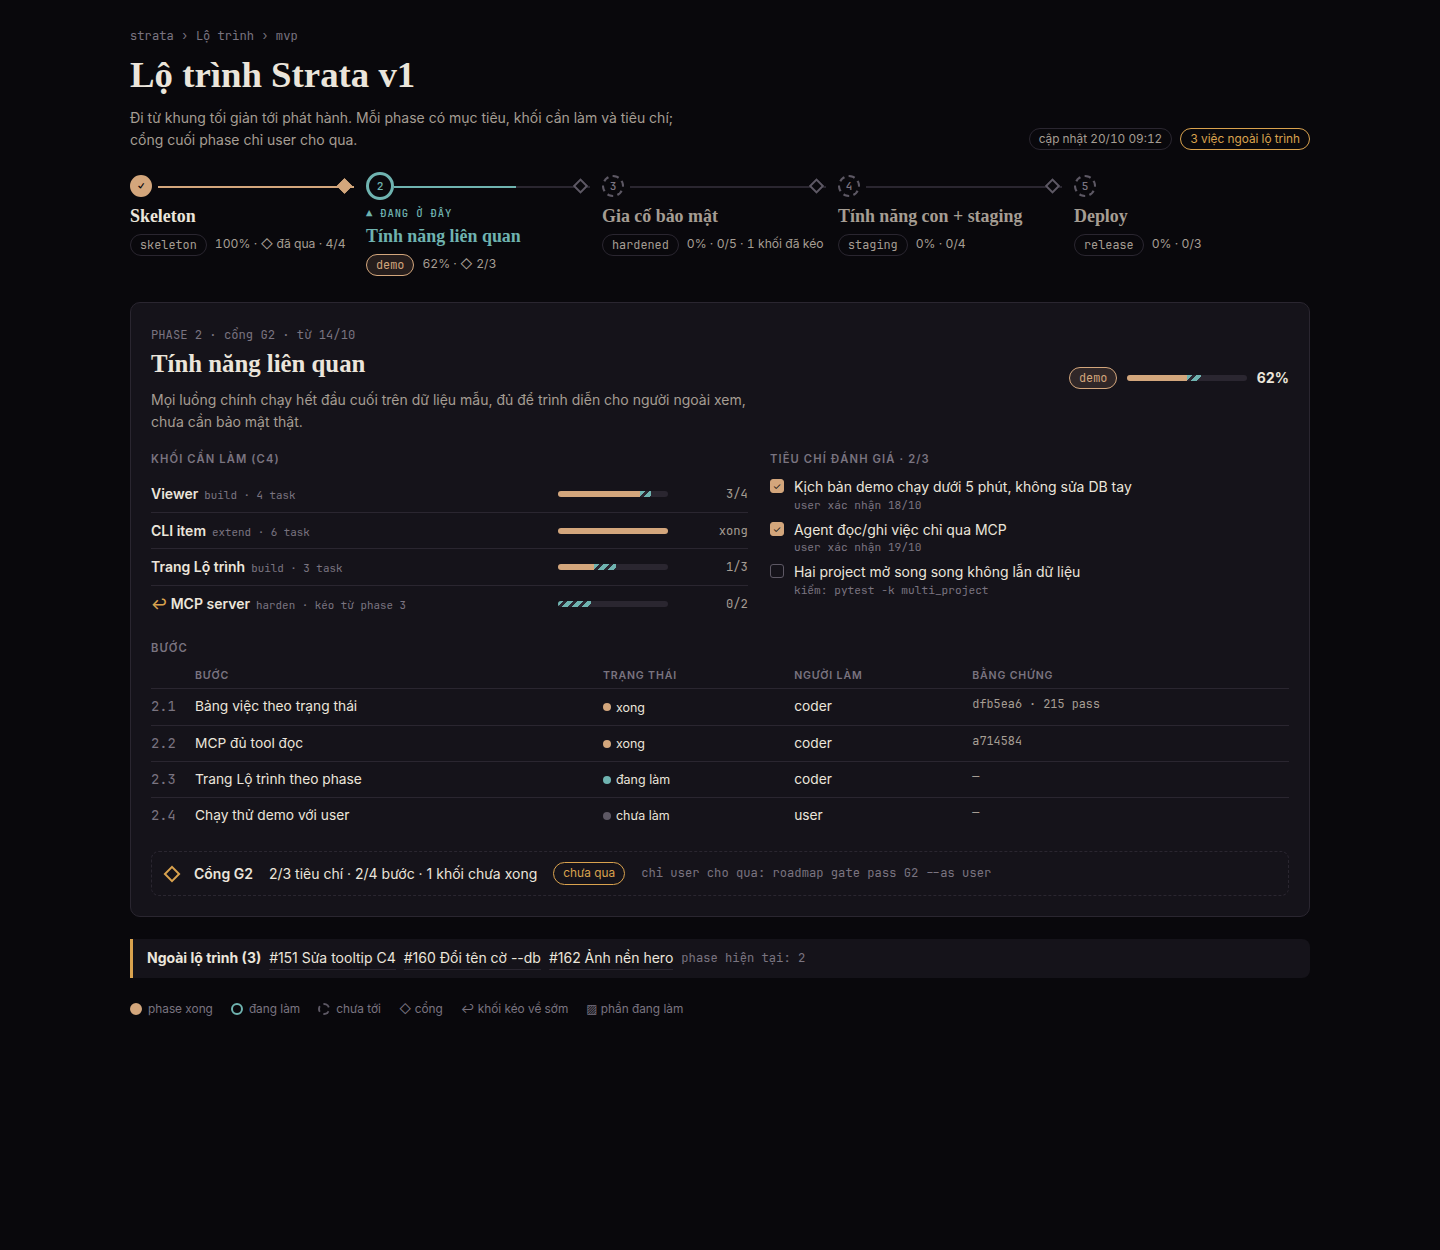
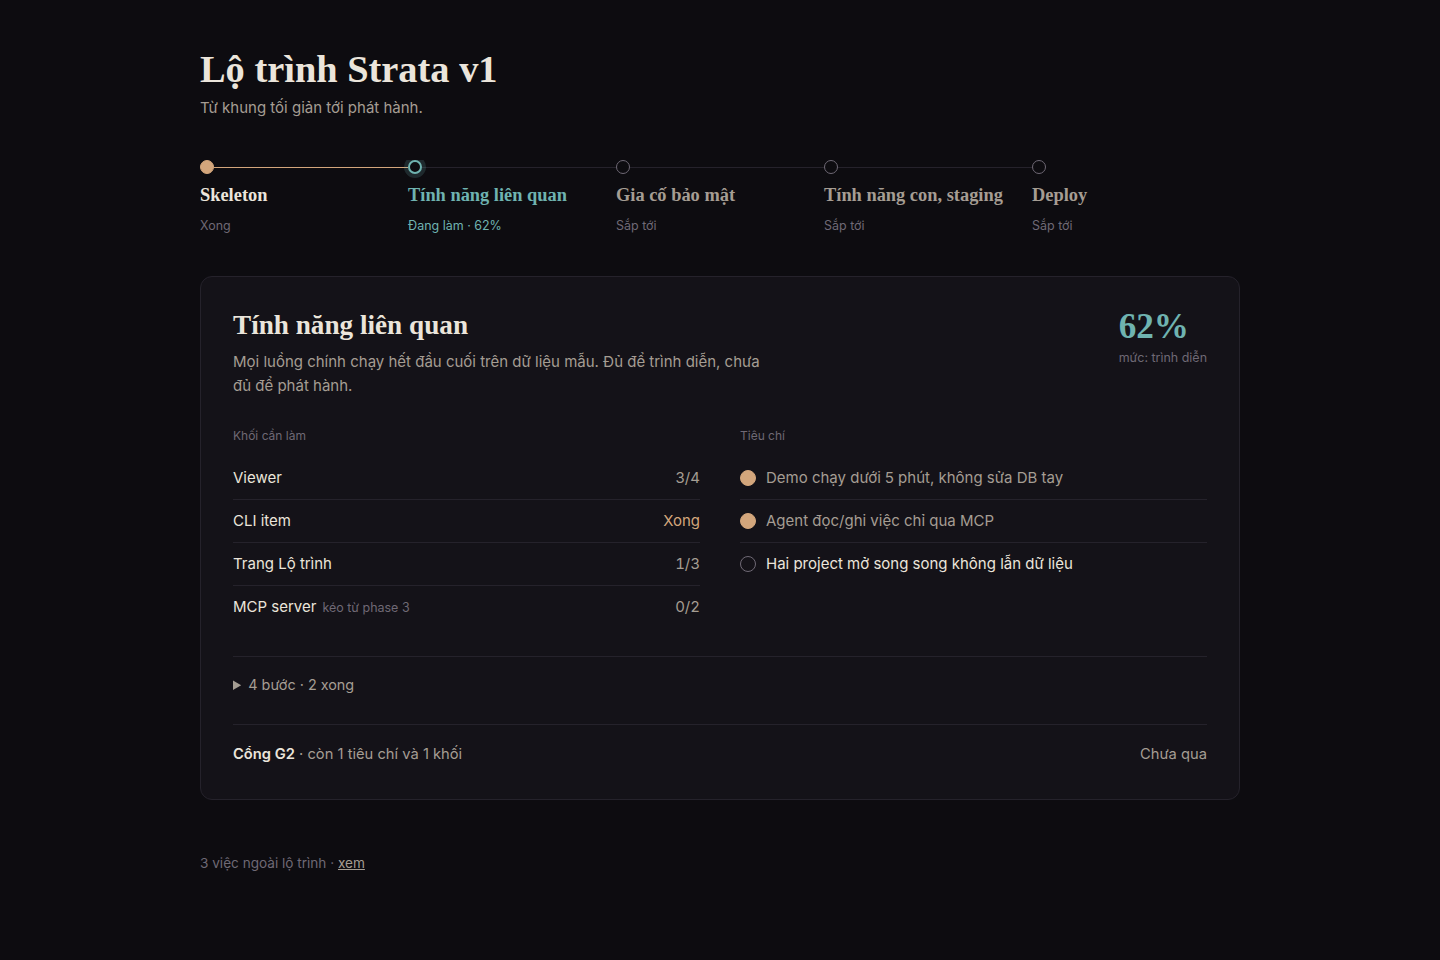
Roadmap mockup v2: simplified (rail names + state, one panel: goal/blocks/criteria, steps folded)

diff --git a/design/roadmap-mockup.html b/design/roadmap-mockup.html
@@ -1,145 +1,97 @@
 <!doctype html><meta charset="utf-8"><meta name="viewport" content="width=device-width,initial-scale=1">
 <title>Strata Lộ trình</title>
 <style>
-/* Layout: horizontal phase rail (arc at a glance) → one phase detail (two columns) → out-of-roadmap band → legend. Tokens from viewer/page.css; dark-first. */
-:root{--bg-0:#09080c;--bg:#100e14;--card:#15131a;--raised:#1b1922;--fg:#ebe5db;--muted:#a59d93;--faint:#7a7480;--line:#2a2630;
---gold:#d3a67c;--gold-soft:rgba(211,166,124,.14);--doing:#6fb3b0;--todo:#5d5864;--bad:#c06464;--warn:#d9a24e;--done:#d3a67c;
---display:"Cormorant Garamond","EB Garamond",Georgia,serif;--body:"Segoe UI",Inter,system-ui,sans-serif;--mono:"JetBrains Mono",ui-monospace,Menlo,monospace;color-scheme:dark}
-:root[data-theme="light"]{--bg-0:#f6f2e8;--bg:#fbfaf5;--card:#fff;--raised:#fff;--fg:#294342;--muted:#55625f;--faint:#677371;--line:#e6dec9;
---gold:#936b0d;--gold-soft:rgba(147,107,13,.1);--doing:#07807d;--todo:#a7afac;--bad:#cd3c35;--warn:#a8701c;--done:#936b0d;color-scheme:light}
-@media (prefers-color-scheme: light){:root:not([data-theme="dark"]){--bg-0:#f6f2e8;--bg:#fbfaf5;--card:#fff;--raised:#fff;--fg:#294342;--muted:#55625f;--faint:#677371;--line:#e6dec9;--gold:#936b0d;--gold-soft:rgba(147,107,13,.1);--doing:#07807d;--todo:#a7afac;--bad:#cd3c35;--warn:#a8701c;--done:#936b0d;color-scheme:light}}
+/* Layout: quiet phase rail (names + one state) → one calm phase panel: goal | blocks | criteria; steps folded; gate one line. Tokens from viewer/page.css, dark-first. */
+:root{--bg:#0d0c10;--card:#141218;--fg:#ebe5db;--muted:#a59d93;--faint:#6f6975;--line:#25222b;
+--gold:#d3a67c;--now:#6fb3b0;--display:"Cormorant Garamond","EB Garamond",Georgia,serif;--body:"Segoe UI",Inter,system-ui,sans-serif;color-scheme:dark}
+:root[data-theme="light"]{--bg:#f8f6f0;--card:#fff;--fg:#294342;--muted:#5b6765;--faint:#8a938f;--line:#e8e2d3;--gold:#936b0d;--now:#07807d;color-scheme:light}
+@media (prefers-color-scheme: light){:root:not([data-theme="dark"]){--bg:#f8f6f0;--card:#fff;--fg:#294342;--muted:#5b6765;--faint:#8a938f;--line:#e8e2d3;--gold:#936b0d;--now:#07807d;color-scheme:light}}
 *{box-sizing:border-box}
-body{margin:0;background:var(--bg-0);color:var(--fg);font:14px/1.55 var(--body);padding-block:24px;padding-left:max(16px,env(safe-area-inset-left,0px));padding-right:max(16px,env(safe-area-inset-right,0px))}
-.wrap{max-width:1180px;margin:0 auto;display:flex;flex-direction:column;gap:22px}
-.mono{font-family:var(--mono);font-size:.76rem;color:var(--faint)}
-h1{font-family:var(--display);font-weight:600;font-size:2.3rem;margin:0;text-wrap:balance}
-h2{font-family:var(--display);font-weight:600;font-size:1.55rem;margin:0}
-h3{font-size:.7rem;letter-spacing:.1em;text-transform:uppercase;color:var(--faint);margin:0 0 8px;font-weight:600}
-.head{display:flex;flex-wrap:wrap;justify-content:space-between;align-items:end;gap:12px}
-.head p{margin:4px 0 0;color:var(--muted);max-width:62ch}
-.chip{display:inline-flex;align-items:center;gap:5px;border:1px solid var(--line);border-radius:999px;padding:1px 9px;font-size:.74rem;color:var(--muted);white-space:nowrap}
-.chip.lv{font-family:var(--mono);text-transform:lowercase}
-.chip.now{border-color:var(--gold);color:var(--gold);background:var(--gold-soft)}
-.chip.warn{border-color:var(--warn);color:var(--warn)}
+body{margin:0;background:var(--bg);color:var(--fg);font:15px/1.6 var(--body);padding-block:48px;padding-left:max(16px,env(safe-area-inset-left,0px));padding-right:max(16px,env(safe-area-inset-right,0px))}
+.wrap{max-width:1040px;margin:0 auto;display:flex;flex-direction:column;gap:40px}
+h1{font:600 2.4rem/1.1 var(--display);margin:0}
+.sub{color:var(--muted);margin:6px 0 0}
 /* rail */
-.rail{position:relative;display:grid;grid-template-columns:repeat(5,minmax(150px,1fr));gap:0;overflow-x:auto;padding-bottom:4px}
-.ph{position:relative;display:flex;flex-direction:column;gap:6px;padding:0 12px 0 0;background:none;border:0;color:inherit;font:inherit;text-align:left;cursor:pointer}
-.ph:focus-visible{outline:2px solid var(--gold);outline-offset:4px;border-radius:6px}
-.track{position:relative;height:28px;display:flex;align-items:center}
-.track::after{content:"";position:absolute;left:28px;right:0;top:50%;height:2px;background:var(--line)}
-.ph.done .track::after{background:var(--done)}
-.ph.cur .track::after{background:linear-gradient(90deg,var(--doing) 62%,var(--line) 62%)}
-.ph:last-child .track::after{display:none}
-.node{position:relative;z-index:1;width:22px;height:22px;border-radius:50%;border:2px dashed var(--todo);background:var(--bg-0);display:grid;place-items:center;font:600 .7rem var(--mono);color:var(--faint)}
-.ph.done .node{border:2px solid var(--done);background:var(--done);color:var(--bg-0)}
-.ph.cur .node{width:28px;height:28px;border:3px solid var(--doing);color:var(--doing)}
-.gate{position:absolute;right:4px;top:50%;width:11px;height:11px;transform:translate(0,-50%) rotate(45deg);border:2px solid var(--todo);background:var(--bg-0);z-index:1}
-.ph.done .gate{background:var(--done);border-color:var(--done)}
-.ph:last-child .gate{display:none}
-.ph .nm{font-family:var(--display);font-size:1.12rem;font-weight:600;line-height:1.2}
-.ph.cur .nm{color:var(--doing)}
-.ph.fut .nm{color:var(--muted)}
-.sum{display:flex;flex-wrap:wrap;gap:4px 8px;align-items:center;font-size:.76rem;color:var(--muted);font-variant-numeric:tabular-nums}
-.here{font:600 .66rem var(--mono);letter-spacing:.08em;color:var(--doing);text-transform:uppercase}
-/* detail */
-.detail{background:var(--card);border:1px solid var(--line);border-radius:10px;padding:20px;display:flex;flex-direction:column;gap:18px}
-.dtop{display:flex;flex-wrap:wrap;gap:10px 18px;align-items:center;justify-content:space-between}
-.goal{margin:6px 0 0;color:var(--muted);max-width:70ch}
-.pbar{display:flex;align-items:center;gap:10px;min-width:220px;font-variant-numeric:tabular-nums}
-.bar{flex:1;height:6px;background:var(--line);border-radius:3px;overflow:hidden;display:flex}
-.bar i{display:block;height:100%}
-.bar .d{background:var(--done)} .bar .g{background:repeating-linear-gradient(135deg,var(--doing) 0 4px,transparent 4px 7px)}
-.cols{display:grid;grid-template-columns:minmax(0,1.15fr) minmax(0,1fr);gap:22px}
-@media (max-width:820px){.cols{grid-template-columns:1fr}}
-.blk{display:grid;grid-template-columns:minmax(0,1fr) 110px 70px;gap:10px;align-items:center;padding:7px 0;border-top:1px solid var(--line)}
-.blk:first-of-type{border-top:0}
-.blk .n{display:flex;gap:6px;align-items:baseline;min-width:0;flex-wrap:wrap}
-.blk .n b{font-weight:600}
-.intent{font:.68rem var(--mono);color:var(--faint)}
-.blk.pulled .n b::before{content:"↩ ";color:var(--warn)}
-.blk.ghost{opacity:.5}
-.blk .pc{font:.76rem var(--mono);color:var(--muted);text-align:right}
-.crit{list-style:none;margin:0;padding:0;display:flex;flex-direction:column;gap:7px}
-.crit li{display:grid;grid-template-columns:18px 1fr;gap:6px}
-.cb{width:14px;height:14px;margin-top:3px;border:1.5px solid var(--todo);border-radius:3px;display:grid;place-items:center;font-size:.6rem}
-.cb.ok{background:var(--done);border-color:var(--done);color:var(--bg-0)}
-.crit small{display:block;font:.7rem var(--mono);color:var(--faint)}
-table{width:100%;border-collapse:collapse;font-size:.86rem}
-th{font:600 .66rem var(--body);letter-spacing:.08em;text-transform:uppercase;color:var(--faint);text-align:left;padding:4px 8px 6px 0}
-td{border-top:1px solid var(--line);padding:7px 8px 7px 0;vertical-align:top}
-td.k{font-family:var(--mono);color:var(--faint);width:44px}
-.st{display:inline-flex;align-items:center;gap:5px;font-size:.78rem}
-.st::before{content:"";width:8px;height:8px;border-radius:50%;background:var(--todo)}
-.st.done::before{background:var(--done)} .st.doing::before{background:var(--doing)} .st.review::before{background:var(--doing);box-shadow:0 0 0 2px var(--bg-0),0 0 0 3px var(--doing)}
-.ev{font:.74rem var(--mono);color:var(--muted)}
-.gatebox{display:flex;flex-wrap:wrap;gap:8px 16px;align-items:center;border:1px dashed var(--line);border-radius:8px;padding:10px 14px}
-.gatebox .dm{width:12px;height:12px;transform:rotate(45deg);border:2px solid var(--warn)}
-.gatebox b{font-weight:600}
-.out{display:flex;flex-wrap:wrap;gap:8px;align-items:center;border-left:3px solid var(--warn);padding:8px 14px;background:var(--card);border-radius:0 8px 8px 0}
-.out a{color:var(--fg);text-decoration:none;border-bottom:1px solid var(--line)}
-.legend{display:flex;flex-wrap:wrap;gap:8px 18px;font-size:.74rem;color:var(--faint);align-items:center}
-.legend span{display:inline-flex;gap:6px;align-items:center}
-.lnode{width:12px;height:12px;border-radius:50%;border:2px dashed var(--todo)}
-.lnode.d{border:2px solid var(--done);background:var(--done)} .lnode.c{border:2px solid var(--doing)}
-@media (prefers-reduced-motion:no-preference){.ph.cur .node{animation:pulse 2.4s ease-in-out infinite}@keyframes pulse{50%{box-shadow:0 0 0 5px color-mix(in srgb,var(--doing) 25%,transparent)}}}
+.rail{display:grid;grid-template-columns:repeat(5,minmax(0,1fr));gap:0;overflow-x:auto}
+.ph{display:flex;flex-direction:column;gap:10px;background:none;border:0;padding:0;color:inherit;font:inherit;text-align:left;cursor:pointer;min-width:120px}
+.ph:focus-visible{outline:2px solid var(--now);outline-offset:6px;border-radius:4px}
+.ln{position:relative;height:14px;display:flex;align-items:center}
+.ln::after{content:"";position:absolute;left:14px;right:0;height:1px;background:var(--line)}
+.ph.done .ln::after{background:var(--gold)}
+.ph:last-child .ln::after{display:none}
+.dot{width:14px;height:14px;border-radius:50%;border:1.5px solid var(--faint);background:var(--bg);position:relative;z-index:1}
+.ph.done .dot{background:var(--gold);border-color:var(--gold)}
+.ph.cur .dot{border:2px solid var(--now);box-shadow:0 0 0 4px color-mix(in srgb,var(--now) 18%,transparent)}
+.nm{font:600 1.15rem/1.2 var(--display);padding-right:12px;color:var(--muted)}
+.ph.done .nm{color:var(--fg)} .ph.cur .nm{color:var(--now)}
+.state{font-size:.78rem;color:var(--faint)}
+.ph.cur .state{color:var(--now)}
+/* panel */
+.panel{background:var(--card);border:1px solid var(--line);border-radius:12px;padding:32px;display:flex;flex-direction:column;gap:28px}
+.top{display:flex;flex-wrap:wrap;justify-content:space-between;gap:16px 32px;align-items:flex-start}
+.top h2{font:600 1.7rem/1.2 var(--display);margin:0}
+.goal{color:var(--muted);margin:8px 0 0;max-width:58ch}
+.pct{font:600 2.2rem/1 var(--display);color:var(--now);font-variant-numeric:tabular-nums}
+.pct small{display:block;font:400 .78rem var(--body);color:var(--faint);margin-top:6px;text-align:right}
+.cols{display:grid;grid-template-columns:1fr 1fr;gap:40px}
+@media (max-width:760px){.cols{grid-template-columns:1fr}.panel{padding:20px}}
+.lbl{font-size:.75rem;color:var(--faint);margin:0 0 12px}
+.row{display:flex;justify-content:space-between;gap:12px;padding:9px 0;border-top:1px solid var(--line)}
+.row:first-of-type{border-top:0}
+.row .v{color:var(--muted);font-variant-numeric:tabular-nums}
+.row.ok .v{color:var(--gold)}
+.from{font-size:.78rem;color:var(--faint);margin-left:6px}
+.crit{list-style:none;margin:0;padding:0}
+.crit li{display:flex;gap:10px;padding:9px 0;border-top:1px solid var(--line)}
+.crit li:first-child{border-top:0}
+.mk{flex:none;width:16px;height:16px;margin-top:4px;border-radius:50%;border:1.5px solid var(--faint)}
+.crit li.ok .mk{background:var(--gold);border-color:var(--gold)}
+.crit li.ok span:last-child{color:var(--muted)}
+details{border-top:1px solid var(--line);padding-top:16px}
+summary{cursor:pointer;color:var(--muted);font-size:.9rem}
+.gate{display:flex;justify-content:space-between;flex-wrap:wrap;gap:8px;border-top:1px solid var(--line);padding-top:18px;color:var(--muted);font-size:.92rem}
+.gate b{color:var(--fg);font-weight:600}
+.foot{color:var(--faint);font-size:.85rem}
+.foot a{color:var(--muted)}
 </style>
 
 <div class="wrap">
-  <div class="head">
-    <div><span class="mono">strata › Lộ trình › mvp</span><h1>Lộ trình Strata v1</h1>
-      <p>Đi từ khung tối giản tới phát hành. Mỗi phase có mục tiêu, khối cần làm và tiêu chí; cổng cuối phase chỉ user cho qua.</p></div>
-    <div class="sum"><span class="chip">cập nhật 20/10 09:12</span><span class="chip warn">3 việc ngoài lộ trình</span></div>
-  </div>
+  <header><h1>Lộ trình Strata v1</h1><p class="sub">Từ khung tối giản tới phát hành.</p></header>
 
   <nav class="rail" aria-label="Các phase">
-    <button class="ph done"><div class="track"><span class="node">✓</span><span class="gate" title="Cổng G1 đã qua"></span></div>
-      <span class="nm">Skeleton</span><span class="sum"><span class="chip lv">skeleton</span>100% · ◇ đã qua · 4/4</span></button>
-    <button class="ph cur" aria-current="step"><div class="track"><span class="node">2</span><span class="gate"></span></div>
-      <span class="here">▲ Đang ở đây</span><span class="nm">Tính năng liên quan</span><span class="sum"><span class="chip lv now">demo</span>62% · ◇ 2/3</span></button>
-    <button class="ph fut"><div class="track"><span class="node">3</span><span class="gate"></span></div>
-      <span class="nm">Gia cố bảo mật</span><span class="sum"><span class="chip lv">hardened</span>0% · 0/5 · 1 khối đã kéo</span></button>
-    <button class="ph fut"><div class="track"><span class="node">4</span><span class="gate"></span></div>
-      <span class="nm">Tính năng con + staging</span><span class="sum"><span class="chip lv">staging</span>0% · 0/4</span></button>
-    <button class="ph fut"><div class="track"><span class="node">5</span></div>
-      <span class="nm">Deploy</span><span class="sum"><span class="chip lv">release</span>0% · 0/3</span></button>
+    <button class="ph done"><span class="ln"><span class="dot"></span></span><span class="nm">Skeleton</span><span class="state">Xong</span></button>
+    <button class="ph cur" aria-current="step"><span class="ln"><span class="dot"></span></span><span class="nm">Tính năng liên quan</span><span class="state">Đang làm · 62%</span></button>
+    <button class="ph"><span class="ln"><span class="dot"></span></span><span class="nm">Gia cố bảo mật</span><span class="state">Sắp tới</span></button>
+    <button class="ph"><span class="ln"><span class="dot"></span></span><span class="nm">Tính năng con, staging</span><span class="state">Sắp tới</span></button>
+    <button class="ph"><span class="ln"><span class="dot"></span></span><span class="nm">Deploy</span><span class="state">Sắp tới</span></button>
   </nav>
 
-  <section class="detail" aria-label="Phase 2">
-    <div class="dtop">
-      <div><span class="mono">PHASE 2 · cổng G2 · từ 14/10</span><h2>Tính năng liên quan</h2>
-        <p class="goal">Mọi luồng chính chạy hết đầu cuối trên dữ liệu mẫu, đủ để trình diễn cho người ngoài xem, chưa cần bảo mật thật.</p></div>
-      <div class="pbar"><span class="chip lv now">demo</span><div class="bar"><i class="d" style="width:50%"></i><i class="g" style="width:12%"></i></div><b>62%</b></div>
+  <section class="panel" aria-label="Phase 2">
+    <div class="top">
+      <div><h2>Tính năng liên quan</h2><p class="goal">Mọi luồng chính chạy hết đầu cuối trên dữ liệu mẫu. Đủ để trình diễn, chưa đủ để phát hành.</p></div>
+      <div class="pct">62%<small>mức: trình diễn</small></div>
     </div>
 
     <div class="cols">
-      <div><h3>Khối cần làm (C4)</h3>
-        <div class="blk"><span class="n"><b>Viewer</b><span class="intent">build · 4 task</span></span><div class="bar"><i class="d" style="width:75%"></i><i class="g" style="width:10%"></i></div><span class="pc">3/4</span></div>
-        <div class="blk"><span class="n"><b>CLI item</b><span class="intent">extend · 6 task</span></span><div class="bar"><i class="d" style="width:100%"></i></div><span class="pc">xong</span></div>
-        <div class="blk"><span class="n"><b>Trang Lộ trình</b><span class="intent">build · 3 task</span></span><div class="bar"><i class="d" style="width:33%"></i><i class="g" style="width:20%"></i></div><span class="pc">1/3</span></div>
-        <div class="blk pulled"><span class="n"><b>MCP server</b><span class="intent">harden · kéo từ phase 3</span></span><div class="bar"><i class="g" style="width:30%"></i></div><span class="pc">0/2</span></div>
+      <div><p class="lbl">Khối cần làm</p>
+        <div class="row"><span>Viewer</span><span class="v">3/4</span></div>
+        <div class="row ok"><span>CLI item</span><span class="v">Xong</span></div>
+        <div class="row"><span>Trang Lộ trình</span><span class="v">1/3</span></div>
+        <div class="row"><span>MCP server<span class="from">kéo từ phase 3</span></span><span class="v">0/2</span></div>
       </div>
-      <div><h3>Tiêu chí đánh giá · 2/3</h3>
+      <div><p class="lbl">Tiêu chí</p>
         <ul class="crit">
-          <li><span class="cb ok">✓</span><span>Kịch bản demo chạy dưới 5 phút, không sửa DB tay<small>user xác nhận 18/10</small></span></li>
-          <li><span class="cb ok">✓</span><span>Agent đọc/ghi việc chỉ qua MCP<small>user xác nhận 19/10</small></span></li>
-          <li><span class="cb"></span><span>Hai project mở song song không lẫn dữ liệu<small>kiểm: pytest -k multi_project</small></span></li>
+          <li class="ok"><span class="mk"></span><span>Demo chạy dưới 5 phút, không sửa DB tay</span></li>
+          <li class="ok"><span class="mk"></span><span>Agent đọc/ghi việc chỉ qua MCP</span></li>
+          <li><span class="mk"></span><span>Hai project mở song song không lẫn dữ liệu</span></li>
         </ul>
       </div>
     </div>
 
-    <div><h3>Bước</h3>
-      <table><thead><tr><th></th><th>Bước</th><th>Trạng thái</th><th>Người làm</th><th>Bằng chứng</th></tr></thead><tbody>
-        <tr><td class="k">2.1</td><td>Bảng việc theo trạng thái</td><td><span class="st done">xong</span></td><td>coder</td><td class="ev">dfb5ea6 · 215 pass</td></tr>
-        <tr><td class="k">2.2</td><td>MCP đủ tool đọc</td><td><span class="st done">xong</span></td><td>coder</td><td class="ev">a714584</td></tr>
-        <tr><td class="k">2.3</td><td>Trang Lộ trình theo phase</td><td><span class="st doing">đang làm</span></td><td>coder</td><td class="ev">—</td></tr>
-        <tr><td class="k">2.4</td><td>Chạy thử demo với user</td><td><span class="st">chưa làm</span></td><td>user</td><td class="ev">—</td></tr>
-      </tbody></table>
-    </div>
+    <details><summary>4 bước · 2 xong</summary></details>
 
-    <div class="gatebox"><span class="dm"></span><b>Cổng G2</b><span>2/3 tiêu chí · 2/4 bước · 1 khối chưa xong</span><span class="chip warn">chưa qua</span><span class="mono">chỉ user cho qua: roadmap gate pass G2 --as user</span></div>
+    <div class="gate"><span><b>Cổng G2</b> · còn 1 tiêu chí và 1 khối</span><span>Chưa qua</span></div>
   </section>
 
-  <div class="out"><b>Ngoài lộ trình (3)</b><a href="#">#151 Sửa tooltip C4</a><a href="#">#160 Đổi tên cờ --db</a><a href="#">#162 Ảnh nền hero</a><span class="mono">phase hiện tại: 2</span></div>
-
-  <div class="legend"><span><i class="lnode d"></i>phase xong</span><span><i class="lnode c"></i>đang làm</span><span><i class="lnode"></i>chưa tới</span><span>◇ cổng</span><span>↩ khối kéo về sớm</span><span>▨ phần đang làm</span></div>
+  <p class="foot">3 việc ngoài lộ trình · <a href="#">xem</a></p>
 </div>
